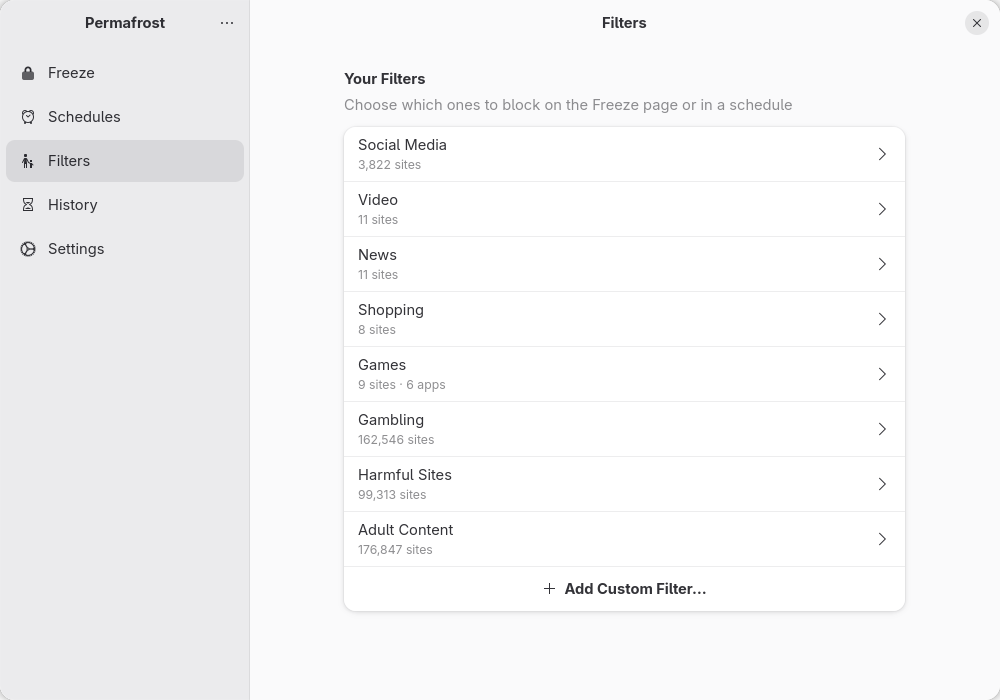
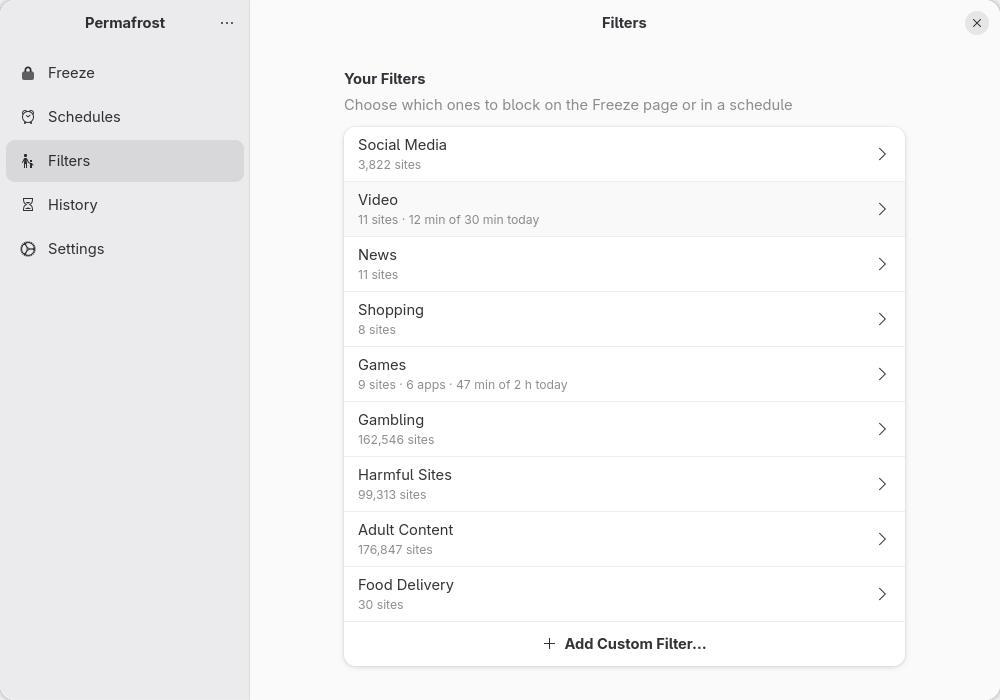
Refresh the README, screenshots and add donation links
The README now opens with what Permafrost helps with and walks through
the features with a screenshot each: Pomodoro, locks, filters and
community lists, Allow Only, daily limits, schedules, history and
settings. It documents the DNS filter in "How it works" and
development, and gains a PayPal donate badge and a Support section.

Adds .github/FUNDING.yml for GitHub's Sponsor button, a donation URL in
the AppStream metadata along with the new screenshots, and a Donate
link in the About dialog. The daily limit now says it counts websites
too.

diff --git a/crates/app/src/list_page.rs b/crates/app/src/list_page.rs
@@ -233,7 +233,7 @@ impl ListPage {
         imp.limit_row.set_subtitle(&if status.limit_reached.contains(&list.id) {
             "Used up for today — blocked until midnight".to_owned()
         } else if list.daily_limit.is_some() {
-            format!("Used {} today. Counts time its apps are open.", format::duration(used))
+            format!("Used {} today on its websites and apps", format::duration(used))
         } else {
             "Block it for the rest of the day once its time is used up".to_owned()
         });

diff --git a/crates/app/src/application.rs b/crates/app/src/application.rs
@@ -50,6 +50,7 @@ fn setup_actions(app: &adw::Application) {
                 .license_type(gtk::License::Gpl30)
                 .copyright("© 2026 Atay Özcan")
                 .build();
+            dialog.add_link("_Donate", "https://paypal.me/atayozc");
             dialog.present(app.active_window().as_ref());
         })
         .build();

diff --git a/README.md b/README.md
@@ -12,37 +12,74 @@ A focus app for the GNOME desktop, in the spirit of Cold Turkey. Lock a freeze a
 ![GNOME 50+](https://img.shields.io/badge/GNOME-50%2B-4a86cf)
 ![libadwaita 1.9](https://img.shields.io/badge/libadwaita-1.9-4a86cf)
 ![Rust](https://img.shields.io/badge/Rust-2024-orange)
+[![Donate with PayPal](https://img.shields.io/badge/Donate-PayPal-00457C?logo=paypal&logoColor=white)](https://paypal.me/atayozc)
 
-<img src="docs/screenshots/freeze.png" width="800" alt="The Freeze page: duration picker, breaks, the Freeze Now button and the filters to block">
+<img src="docs/screenshots/freeze.png" width="800" alt="The Freeze page: timer or Pomodoro, duration, the Freeze Now button and the filters to block">
 
 </div>
 
-## Features
-
-- **Freeze now** for 25 minutes, 1, 2 or 4 hours, or any custom time.
-- **Locks that hold.** A locked freeze can't be stopped early, only extended. Filters in a locked freeze can only get stricter: you can add sites, never remove them.
-- **Filters** for social media, video, news, shopping, games, gambling, adult content and harmful sites, plus your own.
-- **Community lists** add hundreds of thousands of sites to a filter, from [StevenBlack/hosts](https://github.com/StevenBlack/hosts), [HaGeZi](https://github.com/hagezi/dns-blocklists) and [The Block List Project](https://github.com/blocklistproject/Lists).
-- **App blocking.** Blocked apps, Flatpaks included, are closed as soon as they open.
-- **Schedules** block filters automatically, at set hours or all day, on the days you choose.
-- **Breaks.** Pomodoro-style cycles (25 + 5, 50 + 10, 90 + 15) lift the blocks for a short break, while the freeze itself stays locked.
-- **Force SafeSearch** on Google, Bing, DuckDuckGo and YouTube.
-- **History** of your focus time, day by day, with a streak.
-- **Hard to get around.** Blocks survive restarts and stopping the service, changing the system clock doesn't end a freeze, and browsers are kept from bypassing blocks through encrypted DNS.
-
-## Screenshots
+## What it helps with
 
 | | |
 |---|---|
-| ![A locked freeze in dark style, counting down with the next break coming up](docs/screenshots/frozen.png) | ![The Filters page listing the built-in and custom filters](docs/screenshots/filters.png) |
-| ![The Gambling filter with its community lists and websites](docs/screenshots/filter.png) | ![Schedules: weekday work hours and an all-day schedule](docs/screenshots/schedules.png) |
-| ![History: focus time today, this week and the day streak](docs/screenshots/history.png) | ![Settings: lock by default, SafeSearch and restore defaults](docs/screenshots/settings.png) |
+| Waste less time on YouTube | A **daily limit** on the Video filter, like 30 minutes a day |
+| Set healthy gaming limits | A daily limit on Games, which closes Steam and other launchers when time's up |
+| Block adult websites | The Adult Content filter with community lists, on an **all-day schedule** |
+| Avoid gambling | The Gambling filter, with 140,000+ sites from community lists |
+| Curb impulse purchases | The Shopping filter during work hours |
+| Cut back on food delivery | The Food Delivery filter in the evenings |
+| Prevent doomscrolling | Social Media and News, frozen or limited |
+| Go to bed on time | An overnight schedule, locked until morning |
+| Study for exams | **Allow Only** your course sites and apps; everything else is blocked |
+| Increase productivity | **Pomodoro** rounds with short and long breaks |
+
+## Features
+
+### Freeze, as a timer or in Pomodoro rounds
+
+Freeze for 25 minutes, 1, 2 or 4 hours, or a custom time like **1:30**. Or switch to **Pomodoro**: pick the number of rounds, the focus length, and short and long breaks. Blocks lift during breaks, and notifications tell you when each round starts.
+
+<p align="center"><img src="docs/screenshots/pomodoro.png" width="720" alt="Pomodoro mode: rounds, focus, short break and long break"></p>
+
+### Locks that hold
+
+A locked freeze can't be stopped early, only extended. While it runs, its filters can only get stricter: you can add sites, never remove them. Blocks survive restarts and stopping the service, and changing the system clock doesn't end a freeze.
+
+<p align="center"><img src="docs/screenshots/frozen.png" width="720" alt="A locked Pomodoro freeze in dark style: round 1 of 4, with the countdown ring"></p>
+
+### Filters, with hundreds of thousands of sites
+
+Built-in filters for social media, video, news, shopping, food delivery, games, gambling, adult content and harmful sites, plus your own. Each holds websites, apps and **community lists** from [StevenBlack/hosts](https://github.com/StevenBlack/hosts), [HaGeZi](https://github.com/hagezi/dns-blocklists) and [The Block List Project](https://github.com/blocklistproject/Lists), including one that blocks VPNs, proxies and encrypted DNS services that could get around Permafrost. Blocked apps, Flatpaks included, are closed as soon as they open.
+
+| | |
+|---|---|
+| ![The Filters page listing the built-in and custom filters](docs/screenshots/filters.png) | ![The Gambling filter with its community lists and websites](docs/screenshots/filter.png) |
+
+### Allow only what you need
+
+Flip a freeze to **Allow Only Selected** and every website and app outside the chosen filters is blocked — ideal for studying with just your course sites and a text editor.
+
+<p align="center"><img src="docs/screenshots/allow.png" width="720" alt="The Freeze page set to Allow Only Selected"></p>
+
+### Daily limits
+
+Give a filter a daily limit. Permafrost counts the time its websites and apps are in use, and once the time is up, the filter is blocked and locked until midnight.
+
+<p align="center"><img src="docs/screenshots/limit.png" width="720" alt="The Video filter with a 30 minute daily limit, 12 minutes used"></p>
+
+### Schedules, History and Settings
+
+Schedules block filters automatically at set hours or all day. History shows your focus time day by day and your streak. Settings has the default lock, **Force SafeSearch** for Google, Bing, DuckDuckGo and YouTube, and Restore Defaults.
+
+| | | |
+|---|---|---|
+| ![Schedules: weekday work hours and an all-day schedule](docs/screenshots/schedules.png) | ![History: focus time today, this week and the day streak](docs/screenshots/history.png) | ![Settings: lock by default, SafeSearch and restore defaults](docs/screenshots/settings.png) |
 
 ## Installation
 
-Permafrost needs a system service to edit `/etc/hosts` and close apps, so it's installed system-wide rather than as a Flatpak.
+Permafrost needs a system service to edit `/etc/hosts`, filter DNS and close apps, so it's installed system-wide rather than as a Flatpak.
 
-**Requirements:** a Linux desktop with GNOME 50 or newer (libadwaita 1.9, GTK 4.22), systemd and Rust 1.92 or newer. On Fedora 44:
+**Requirements:** a Linux desktop with GNOME 50 or newer (libadwaita 1.9, GTK 4.22), systemd, systemd-resolved, nftables and Rust 1.92 or newer. On Fedora 44:
 
 ```sh
 sudo dnf install gtk4-devel libadwaita-devel blueprint-compiler glib2-devel
@@ -76,6 +113,7 @@ Your filters, schedules and history stay in `/var/lib/permafrost` until you dele
 ┌────────────────────┴───────────────────────┐
 │  permafrostd (systemd service, root)       │
 │   ├─ /etc/hosts      blocks websites       │
+│   ├─ DNS filter      allowlists, limits    │
 │   ├─ app scopes      closes blocked apps   │
 │   ├─ browser policy  turns off DoH         │
 │   └─ /var/lib/permafrost  state + lists    │
@@ -83,11 +121,11 @@ Your filters, schedules and history stay in `/var/lib/permafrost` until you dele
 ```
 
 - **The service owns every rule.** The app never runs as root; it only asks `permafrostd` for changes, and the service refuses anything that would loosen a lock. Closing or killing the app changes nothing.
-- **Websites** are blocked through a managed section of `/etc/hosts`, which every browser and app respects. Common subdomains (`www.`, `m.`, …) are blocked along with each site. Large community lists are written as IPv4-only lines to keep the file small.
+- **Websites** are blocked through a managed section of `/etc/hosts`, which every browser and app respects. Common subdomains (`www.`, `m.`, …) are blocked along with each site, and community lists are written as IPv4-only lines to keep the file small.
+- **The DNS filter** is a small forwarder in the service, used for allowlists and website time limits. While it's needed, an nftables rule sends systemd-resolved's lookups to it, with one port per upstream server and each query sent out of the same network interface, so split DNS (VPNs, Tailscale) keeps working. Your DNS settings are never edited, and the rule is removed when it's no longer needed or the service stops, even after a crash.
 - **Apps** are found through the systemd scope GNOME starts every app in (`app-gnome-…scope`, `app-flatpak-…scope`) and closed with `cgroup.kill`. Apps started some other way are matched by their executable.
-- **Encrypted DNS** (DNS-over-HTTPS) would skip `/etc/hosts`, so while anything is blocked the service installs managed policies that turn it off in Firefox, Chrome, Chromium, Brave and Edge, and removes them afterwards. It never touches a policy file it didn't create. Browsers pick the policy up when they start.
+- **Encrypted DNS** (DNS-over-HTTPS) would skip all of this, so while anything is blocked the service installs managed policies that turn it off in Firefox, Chrome, Chromium, Brave and Edge, and removes them afterwards. It never touches a policy file it didn't create. Browsers pick the policy up when they start.
 - **Clock changes** don't end freezes early: the service measures elapsed time with the boot clock and shifts the end time if the wall clock jumps.
-- **Community lists** are downloaded each time the service starts and when one is added, and the last good copy is kept for offline use.
 
 > [!NOTE]
 > Permafrost aims for "just enough friction", not a fortress. Anyone with root access can undo it. Its job is to make breaking a freeze slow and deliberate, not impossible.
@@ -116,7 +154,13 @@ cargo run -p permafrostd -- --session --dry-run --state-dir /tmp/permafrost --ho
 PERMAFROST_BUS=session cargo run -p permafrost
 ```
 
-`--dry-run` logs what would be blocked instead of writing `/etc/hosts`, browser policies or closing apps.
+`--dry-run` logs what would be blocked instead of writing `/etc/hosts`, firewall rules or browser policies, or closing apps. The DNS filter still listens, on ports 5300 and up (one per upstream server), so you can query it directly:
+
+```sh
+dig @127.0.0.1 -p 5300 example.com
+```
+
+If the real service ever leaves DNS broken, `sudo nft delete table inet permafrost_dns` turns the filter's redirect off.
 
 Debug builds can render the window to a PNG and quit, which is how the screenshots above were made:
 
@@ -124,7 +168,7 @@ Debug builds can render the window to a PNG and quit, which is how the screensho
 PERMAFROST_BUS=session PERMAFROST_SCREENSHOT=out.png PERMAFROST_SECTION=filters cargo run -p permafrost
 ```
 
-`PERMAFROST_SECTION` takes `schedules`, `filters`, `history`, `settings`, `custom`, `list:<id>` or `preview:<id>`. Set `ADW_DEBUG_ACCENT_COLOR=blue` and `ADW_DEBUG_COLOR_SCHEME=prefer-dark` to control the look.
+`PERMAFROST_SECTION` takes `schedules`, `filters`, `history`, `settings`, `custom`, `pomodoro`, `allow`, `list:<id>` or `preview:<id>`. Set `ADW_DEBUG_ACCENT_COLOR=blue` and `ADW_DEBUG_COLOR_SCHEME=prefer-dark` to control the look.
 
 ### D-Bus interface
 
@@ -137,15 +181,23 @@ PERMAFROST_BUS=session PERMAFROST_SCREENSHOT=out.png PERMAFROST_SECTION=filters 
 | `SaveSchedule` / `DeleteSchedule` | schedule JSON / id |
 | `SetSettings` | settings JSON |
 | `RestoreDefaults` | |
-| `StartFreeze` | list ids, seconds, locked, work minutes, break minutes (0 for no breaks) |
+| `StartFreeze` | list ids, seconds, locked, Pomodoro breaks JSON (empty for none), allow only |
 | `AddTime` / `StopFreeze` | seconds / — |
 
 Signals: `StatusChanged(status)` and `AppBlocked(app_id, until)`. Calls that would loosen a lock fail with `org.freedesktop.DBus.Error.AccessDenied`.
 
+## Support
+
+Permafrost is free and always will be. If it helps you focus, you can support its development:
+
+[![Donate with PayPal](https://img.shields.io/badge/Donate-PayPal-00457C?logo=paypal&logoColor=white&style=for-the-badge)](https://paypal.me/atayozc)
+
+Bug reports and ideas are welcome in [Issues](https://github.com/atayoez/permafrost/issues).
+
 ## Credits
 
 - Community lists by [Steven Black](https://github.com/StevenBlack/hosts) (MIT), [HaGeZi](https://github.com/hagezi/dns-blocklists) (GPL-3.0) and [The Block List Project](https://github.com/blocklistproject/Lists) (Unlicense). Permafrost downloads them from their projects; they aren't bundled.
-- Built with [GTK](https://gtk.org), [libadwaita](https://gnome.pages.gitlab.gnome.org/libadwaita/), [gtk-rs](https://gtk-rs.org), [zbus](https://github.com/dbus2/zbus) and [ashpd](https://github.com/bilelmoussaoui/ashpd).
+- Built with [GTK](https://gtk.org), [libadwaita](https://gnome.pages.gitlab.gnome.org/libadwaita/), [gtk-rs](https://gtk-rs.org), [zbus](https://github.com/dbus2/zbus), [hickory-dns](https://github.com/hickory-dns/hickory-dns) and [ashpd](https://github.com/bilelmoussaoui/ashpd).
 - Inspired by [Cold Turkey](https://getcoldturkey.com), which doesn't run on Linux.
 
 ## License
